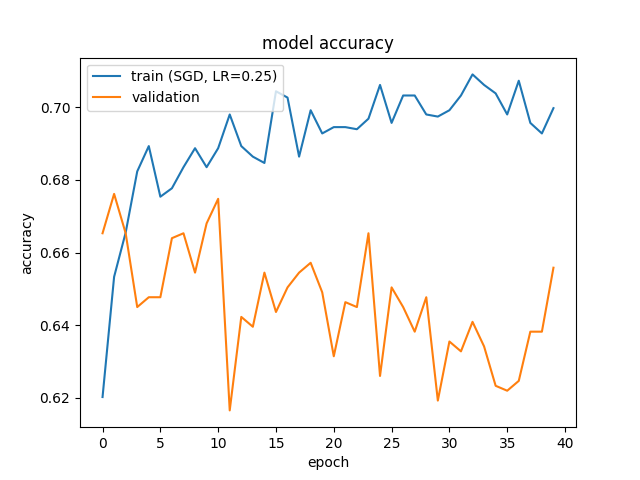
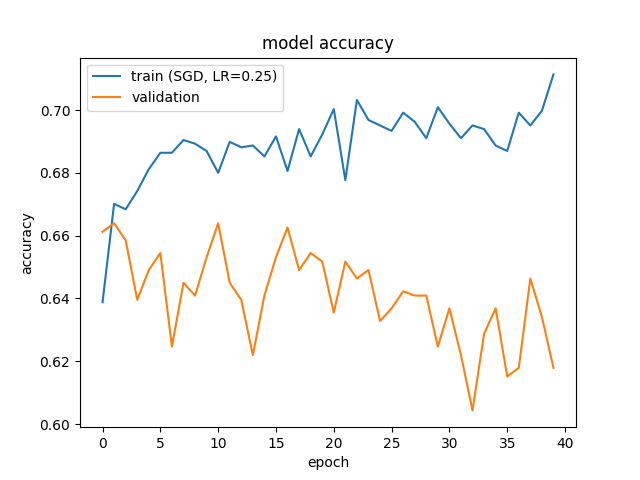
Removed the features GAME_ID, MIN, MIN_OPP, index from te features used in model.py

diff --git a/model.py b/model.py
@@ -9,6 +9,7 @@ from tensorflow.keras import layers
 from tensorflow.keras import initializers
 import pandas as pd
 from sklearn.model_selection import train_test_split
+import sys
 
 data = pd.read_csv("Dataset1.csv", converters={'WL': lambda x: int(x == 'W')})
 numeric = data[data.columns.difference(['WL'])].select_dtypes(include='number')
@@ -20,12 +21,17 @@ norm_data=(numeric-numeric.mean())/numeric.std()
 pd.set_option('display.max_rows', None)
 pd.set_option('display.max_columns', None)
 print("norm data shape ", norm_data.shape)
-print(" norm data first element ", norm_data.loc[0])
+# print(" norm data first element ", norm_data.loc[0])
 
 target = data['WL']
-features = norm_data[norm_data.columns.difference(['WL'])]
+#unnamed is the actual index of the dataset. dont know what 'index' is
+# WL was already dropped at this point
+columns_to_drop = ['GAME_ID', 'MIN', 'MIN_OPP','index']
+features = norm_data.drop(columns=columns_to_drop)
+# features = norm_data[norm_data.columns.difference(['WL'])]
+print("features shape ", features.shape)
 
-
+print(" features first elemn ", features.loc[0])
 features_train, features_test, target_train, target_test = train_test_split(features, target, test_size=0.3, random_state=0)
 
 # chosen arbitrarily
